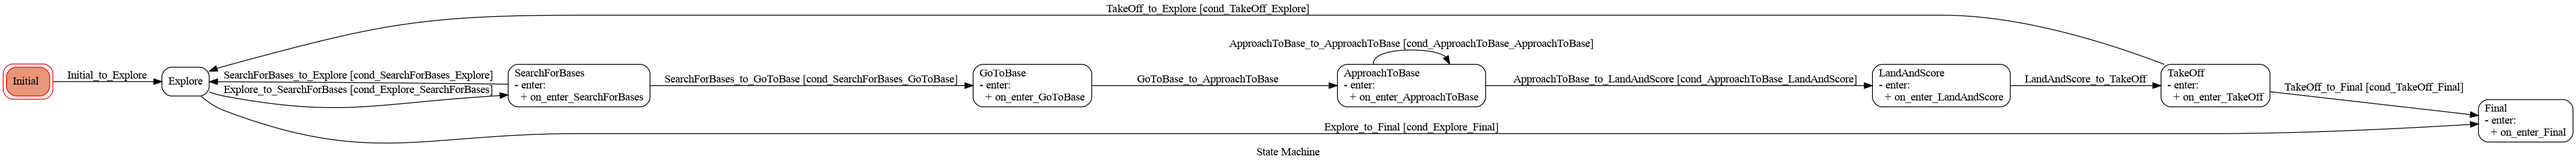
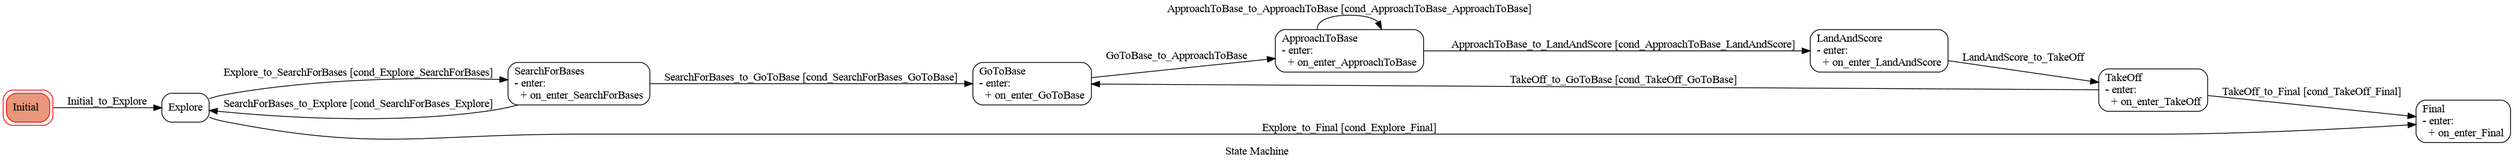
Phase 1 only IA

diff --git a/Pytransitions/FRTL/FRTL.py b/Pytransitions/FRTL/FRTL.py
@@ -12,7 +12,7 @@ from cv_bridge import CvBridge
 
 from DetectNet import detect_single_frame
 
-TARGET_HEIGHT = 3
+TARGET_HEIGHT = 4
 resp = ['']
 msg = String()
 global Wait_flag
@@ -40,6 +40,59 @@ def is_base_already_visited(self, x, y):
         return False
 
 import math
+
+def cleanMappedBases(self):
+        self.node.get_logger().info("Iniciando limpeza das bases mapeadas...")
+
+        # Opcional: Se alguma base foi detectada num surto da rede neural
+        # muito fora do seu grid 8x8m, você pode filtrá-la aqui antes do loop.
+
+        # Enquanto tivermos mais de 5 small bases, fundimos as mais próximas
+        while len(self.bases) > 5:
+            min_dist = float('inf')
+            pair_to_merge = None
+
+            # 1. Encontra o par de bases com a menor distância entre si
+            for i in range(len(self.bases)):
+                for j in range(i + 1, len(self.bases)):
+                    b1 = self.bases[i]
+                    b2 = self.bases[j]
+                    dist = math.sqrt((b1.pos.X - b2.pos.X)**2 + (b1.pos.Y - b2.pos.Y)**2)
+                    
+                    if dist < min_dist:
+                        min_dist = dist
+                        pair_to_merge = (i, j)
+            
+            # 2. Mescla o par mais próximo
+            if pair_to_merge:
+                i, j = pair_to_merge
+                b1 = self.bases[i]
+                b2 = self.bases[j]
+                
+                # Calcula o centroide (média das coordenadas)
+                avg_x = (b1.pos.X + b2.pos.X) / 2.0
+                avg_y = (b1.pos.Y + b2.pos.Y) / 2.0
+                avg_z = (b1.pos.Z + b2.pos.Z) / 2.0
+                
+                # Cria a nova base refinada
+                merged_target = Target(id=b1.id, pos=Position(avg_x, avg_y, avg_z, 0), visited=False)
+                
+                # Remove os antigos (ATENÇÃO: remover sempre o maior índice primeiro (j) para não quebrar a lista!)
+                self.bases.pop(j)
+                self.bases.pop(i)
+                
+                # Adiciona a nova base mesclada
+                self.bases.append(merged_target)
+                self.node.get_logger().info(f"Bases fundidas para corrigir odometria. Distância de erro era: {min_dist:.2f}m")
+
+        # 3. Reorganiza os IDs para ficarem de 1 a 5 certinho
+        for idx, base in enumerate(self.bases):
+            base.id = idx + 1
+            self.node.get_logger().info(f"Small Base Final #{base.id} -> X: {base.pos.X:.2f}, Y: {base.pos.Y:.2f}")
+
+        # Se por algum milagre ele mapeou menos de 5, avisa no log
+        if len(self.bases) < 5:
+            self.node.get_logger().warn(f"Atenção: Apenas {len(self.bases)} bases foram encontradas!")
 
 def searchBases(self, img):
     """
@@ -72,7 +125,7 @@ def searchBases(self, img):
     self.node.annotated_pub.publish(out_msg)
     
     # Constante óptica validada pelo SDF
-    FOCAL_LENGTH = 205.47 
+    FOCAL_LENGTH = 405.47 
     
     current_yaw = getattr(self, 'droneYaw', 0.0)
 
@@ -93,7 +146,7 @@ def searchBases(self, img):
             if label == 'large_base':
                 real_size = 2.0
             else:
-                real_size = 1.0
+                real_size = 1.1
 
             # A) Calcula a distância linear usando o tamanho correto
             dist_to_base = (real_size * FOCAL_LENGTH) / bbox_width_pixels
@@ -119,18 +172,15 @@ def searchBases(self, img):
                 if dist < 1.0:
                     is_duplicate = True
                     break
-            
+
             # 5. Adiciona novo Target respeitando a regra de posições
-            if label != 'large_base':
-                if not is_duplicate:
-                    # Gerar ID único incrementando o tamanho atual
+            if not is_duplicate:
+                if label == 'large_base':
+                    self.largeBase = Target(id=99, pos=Position(est_x, est_y, est_z, 0), visited=False)
+                    self.node.get_logger().info(f"Large Base encontrada em: X={est_x:.2f}, Y={est_y:.2f}")
+                else:
                     new_id = len(self.bases) + 1
-                    new_target = Target(
-                        id=new_id, 
-                        pos=Position(est_x, est_y, est_z, 0),
-                        visited=False
-                    )
-                    
+                    new_target = Target(id=new_id, pos=Position(est_x, est_y, est_z, 0), visited=False)
                     self.bases.append(new_target)
                     self.node.get_logger().info(f"Nova Small Base #{new_id} em: X={est_x:.2f}, Y={est_y:.2f}")
 
@@ -150,22 +200,25 @@ def searchBases(self, img):
 
 def searchNearestBase(self, img):
     """
-    Calcula o deslocamento relativo necessário, transformando as coordenadas
-    da câmera (Body Frame) para o sistema global (NED) usado pela plataforma.
+    Calcula o deslocamento relativo necessário MANTENDO NO REFERENCIAL BODY.
     """
-    
-    # 1. Atualiza e valida a posição do drone (proteção contra falha de leitura)
     time.sleep(3)
 
     self.dronePos = updateDronePos(self)
     if not self.dronePos:
         return Position(0.0, 0.0, 0.0, 0.0)
 
-    altitude = abs(self.dronePos.Z)
-
     current_yaw = getattr(self, 'droneYaw', 0.0) 
+    
+    self.node.get_logger().info("Executando detect_single_frame...")
+    annotated_img, detections = detect_single_frame(img)
 
-    _, detections = detect_single_frame(img)
+    if annotated_img is None:
+        self.node.get_logger().error("annotated_img é None!")
+        return Position(0.0, 0.0, 0.0, 0.0)
+
+    out_msg = self.node.bridge.cv2_to_imgmsg(annotated_img, encoding='bgr8')
+    self.node.annotated_pub.publish(out_msg)
     
     if not detections:
         return Position(0.0, 0.0, 0.0, 0.0)
@@ -173,50 +226,61 @@ def searchNearestBase(self, img):
     best_rel_pos = None
     min_dist_sq = float('inf')
 
-    smooth_factor = 0.85  # Move apenas 40% do erro por iteração (ajuda a desacelerar)
-    deadzone = 0.05      # Ignora erros menores que 5% (evita tremores finos)
+    smooth_factor = 0.85 
+    deadzone = 0.05      
 
-    # Valores extraídos diretamente do SDF do Gazebo
-    FOCAL_LENGTH = 205.47  # Calculado a partir de FOV 2.0 e Width 640
-    REAL_BASE_SIZE_M = 1.0 # 1 metro
+    FOCAL_LENGTH = 205.47
+    
+    # Constantes óticas (Pixels / FOCAL_LENGTH)
+    # Assumindo resolução de 640x480 e force_vector normalizado de -1 a 1
+    CONST_X = (640.0 / 2.0) / FOCAL_LENGTH  # Aproximadamente 1.557
+    CONST_Y = (480.0 / 2.0) / FOCAL_LENGTH  # Aproximadamente 1.168
 
     for det in detections:
         if isinstance(det, dict) and 'force_vector' in det and 'width' in det:
+            
+            # 1. CORREÇÃO DE ESCALA (Tamanho Dinâmico)
+            label = det.get('label', 'small_base')
+            if label == 'large_base':
+                real_size = 2.0
+            else:
+                real_size = 1.1
+
             fx = det['force_vector']['x']
             fy = det['force_vector']['y']
             bbox_width_pixels = det['width']
 
-            # Agora isso vai te dar a distância real (em metros) da lente até a base!
-            dist_to_base = (REAL_BASE_SIZE_M * FOCAL_LENGTH) / bbox_width_pixels
+            dist_to_base = (real_size * FOCAL_LENGTH) / bbox_width_pixels
 
-            # 1. Aplica a Zona Morta (Deadzone)
             if abs(fx) < deadzone: fx = 0.0
             if abs(fy) < deadzone: fy = 0.0
 
-            # 2. Coordenadas no referencial do DRONE (Body Frame) com Suavização
-            # O eixo Y da imagem controla Frente/Trás (+X)
-            # O eixo X da imagem controla Direita/Esquerda (+Y)
-            dx_body = -(fy * dist_to_base) * smooth_factor
-            dy_body = (fx * dist_to_base) * smooth_factor
+            # 2. CORREÇÃO MATEMÁTICA PINHOLE (Aplicando CONST_X e CONST_Y)
+            dx_body = -(fy * CONST_Y * dist_to_base) * smooth_factor
+            dy_body = (fx * CONST_X * dist_to_base) * smooth_factor
 
-            # 3. TRANSFORMAÇÃO PARA REFERENCIAL GLOBAL (NED)
+            # 3. Transformação para Global APENAS para verificar se já foi visitada!
             dx_ned = dx_body * math.cos(current_yaw) - dy_body * math.sin(current_yaw)
             dy_ned = dx_body * math.sin(current_yaw) + dy_body * math.cos(current_yaw)
 
-            # 4. Verificação de visita (usando coordenadas globais NED)
             est_x_global = self.dronePos.X + dx_ned
             est_y_global = self.dronePos.Y + dy_ned
 
             if is_base_already_visited(self, est_x_global, est_y_global):
                 continue
 
-            dist_sq = dx_ned**2 + dy_ned**2
+            # 4. CORREÇÃO DE REFERENCIAL (Retornar Body Frame para o relMove)
+            # Usamos dx_body e dy_body para saber a distância e salvar
+            dist_sq = dx_body**2 + dy_body**2
             if dist_sq < min_dist_sq:
                 min_dist_sq = dist_sq
-                best_rel_pos = Position(dx_ned, dy_ned, 0.0, 0.0)
+                # Salva dx_body, dy_body e A DISTÂNCIA Z ATÉ A BASE!
+                best_rel_pos = Position(dx_body, dy_body, dist_to_base, 0.0)
 
+    # Retorna dist_to_base = 0.0 se não achar nada
     return best_rel_pos if best_rel_pos is not None else Position(0.0, 0.0, 0.0, 0.0)
 
+    return best_rel_pos if best_rel_pos is not None else Position(0.0, 0.0, 0.0, 0.0)
 
 def updateDronePos(self):
     try:
@@ -378,7 +442,7 @@ class Phase1(GraphMachine):
 
         {'trigger': 'LandAndScore_to_TakeOff', 'source': 'LandAndScore', 'dest': 'TakeOff'},
 
-        {'trigger': 'TakeOff_to_Explore', 'source': 'TakeOff', 'dest': 'Explore', 'conditions': 'cond_TakeOff_Explore'},
+        {'trigger': 'TakeOff_to_GoToBase', 'source': 'TakeOff', 'dest': 'GoToBase', 'conditions': 'cond_TakeOff_GoToBase'},
         {'trigger': 'TakeOff_to_Final', 'source': 'TakeOff', 'dest': 'Final', 'conditions': 'cond_TakeOff_Final'},
     ]
 
@@ -408,13 +472,19 @@ class Phase1(GraphMachine):
         self.img = None
         self.trigger_image = False
         self.count = 0
-        self.visitedBases = 1
         self.bases: list[Target] = []
+        self.largeBase = None  # Para guardar a base final separada
+        self.visitedBases = 0  
+        
+        # Grid Lawnmower para cobrir 8x8 (pontos extremos e meios)
         self.defPos = [ 
-                    Position(2 + self.homePos.X,  2 + self.homePos.Y, self.homePos.Z - self.targetHeight, 0), 
-                    Position(-4 + self.homePos.X, -4 + self.homePos.Y, self.homePos.Z - self.targetHeight, 0),
-                    Position(-6 + self.homePos.X, -6 + self.homePos.Y, self.homePos.Z - self.targetHeight, 0)
-                ]
+            Position( 0 + self.homePos.X,   0 + self.homePos.Y, self.homePos.Z - self.targetHeight, 0), 
+            Position( 0 + self.homePos.X,  -8.5 + self.homePos.Y, self.homePos.Z - self.targetHeight, 0),
+            Position( -4 + self.homePos.X,  -4 + self.homePos.Y, self.homePos.Z - self.targetHeight, 0),
+            Position(-8 + self.homePos.X,  -0 + self.homePos.Y, self.homePos.Z - self.targetHeight, 0),
+            Position(-8 + self.homePos.X,   -8 + self.homePos.Y, self.homePos.Z - self.targetHeight, 0)
+        ]
+        self.MAX_ATTEMPT = len(self.defPos)
         
         
         # Targets = [
@@ -429,7 +499,6 @@ class Phase1(GraphMachine):
         self.dronePos = Position(0,0,0, 0)
         self.distToTarget = 99999999.0
 
-        self.MAX_ATTEMPT = 3
         self.SAFE_DISTANCE = 0.2
 
         ####################### Draw State Machine ######################
@@ -451,26 +520,37 @@ class Phase1(GraphMachine):
         return self.count > self.MAX_ATTEMPT
 
     def cond_SearchForBases_Explore(self):
-        return len(self.bases) < 5 and self.count <= self.MAX_ATTEMPT
+        # Continua explorando até varrer todos os pontos
+        return self.count < self.MAX_ATTEMPT
             
     def cond_SearchForBases_GoToBase(self):
-        return len(self.bases) > 1
+        # Acabou de explorar? Vai para as bases!
+        return self.count >= self.MAX_ATTEMPT
     
     def cond_ApproachToBase_ApproachToBase(self):
-        return (self.distToTarget >= self.SAFE_DISTANCE)
+        # Continua aproximando se X/Y forem longe OU se o Z ainda for alto (> 0.6m)
+        current_error_xy = calcDist(self.basePos)
+        current_height_z = self.basePos.Z # Pega o Z retornado pela searchNearestBase
+        return (current_error_xy >= self.SAFE_DISTANCE) or (current_height_z > 0.6)
     
     def cond_ApproachToBase_LandAndScore(self):
-        return (self.distToTarget < self.SAFE_DISTANCE)
+        # Pousa se X/Y forem perto E se estiver baixo (< 0.6m)
+        current_error_xy = calcDist(self.basePos)
+        current_height_z = self.basePos.Z
+        return (current_error_xy < self.SAFE_DISTANCE) and (current_height_z <= 0.6)
     
-    def cond_TakeOff_Explore(self):
-        return (self.visitedBases < 5)
+    def cond_TakeOff_GoToBase(self):
+        # Quantidade de small bases na lista + 1 (se a large base foi achada), senão + 0
+        total_targets = len(self.bases) + (1 if self.largeBase is not None else 0)
+        return self.visitedBases < total_targets 
     
     def cond_TakeOff_Final(self):
-        return (self.visitedBases >= 5)
+        total_targets = len(self.bases) + (1 if self.largeBase is not None else 0)
+        return self.visitedBases >= total_targets
     
     ####################### Before Transitions ####################### 
     def before_Initial_Explore(self):
-        self.count = 1
+        self.count = 0
         self.visitedBases = 0
 
     def reset_trigger_image(self):
@@ -482,11 +562,27 @@ class Phase1(GraphMachine):
         self.count = self.count + 1
 
     def before_SearchForBases_GoToBase(self):
-        self.count = 1
+        cleanMappedBases(self)
 
     def before_ApproachToBase_ApproachToBase(self):
         print("Moving to new Position...")
-        Request(self.node, f"relMove;{self.basePos.X};{self.basePos.Y};{self.basePos.Z}")
+        
+        # --- NOVO CÁLCULO DE DESCIDA GRADUAL ---
+        # Definimos uma "altitude de pouso" (ex: 0.5m do chão).
+        DESIRED_LANDING_ALTITUDE_Z = -0.5
+        
+        # Pegamos a altitude Z atual do drone (ex: -3.0).
+        current_altitude_z = self.dronePos.Z
+        
+        # Criamos um delta_z para aproximar a altitude atual da altitude de pouso.
+        # Usamos smooth_factor para a descida ser suave.
+        descend_smooth_factor = 0.2 # Desce 20% do erro por iteração
+        delta_z = (DESIRED_LANDING_ALTITUDE_Z - current_altitude_z) * descend_smooth_factor
+        # ----------------------------------------
+
+        # Usamos a posição Body Frame (X, Y) calculada pela câmera 
+        # e o novo delta_z calculado para a descida.
+        Request(self.node, f"relMove;{self.basePos.X};{self.basePos.Y};{-delta_z}")
         Wait()
 
     ####################### On_enter States #######################         
@@ -502,15 +598,35 @@ class Phase1(GraphMachine):
 
     def on_enter_GoToBase(self):
         self.node.get_logger().info("on_enter_GoToBase")
-        target_global = self.bases[self.visitedBases].pos
+        
+        # Decide qual é o alvo: As 5 pequenas ou a grande?
+        if self.visitedBases < len(self.bases):
+            target_global = self.bases[self.visitedBases].pos
+            self.node.get_logger().info(f"Indo para Small Base {self.visitedBases+1}")
+        elif self.largeBase is not None:
+            target_global = self.largeBase.pos
+            self.node.get_logger().info("Indo para a Large Base Final!")
+        else:
+            self.node.get_logger().error("Erro: Large Base não foi mapeada!")
+            return # Ou joga pro final/emergência
+            
         self.dronePos = updateDronePos(self)
+        current_yaw = getattr(self, 'droneYaw', 0.0) 
+    
+        # 1. Distância no Referencial Global (Norte/Leste)
+        delta_x_global = target_global.X - self.dronePos.X
+        delta_y_global = target_global.Y - self.dronePos.Y
+        
+        # 2. Converte para o Referencial do Drone (Body Frame: Frente/Direita)
+        # Aplicamos a matriz de rotação inversa (girando pelo -Yaw)
+        delta_x_body = delta_x_global * math.cos(current_yaw) + delta_y_global * math.sin(current_yaw)
+        delta_y_body = -delta_x_global * math.sin(current_yaw) + delta_y_global * math.cos(current_yaw)
+        delta_z = 0.1
 
-        # offset relativo
-        delta_x = target_global.X - self.dronePos.X
-        delta_y = target_global.Y - self.dronePos.Y
-        delta_z = 0
+        self.node.get_logger().info(f"Movendo (Body Frame): Frente={delta_x_body:.2f}m, Direita={delta_y_body:.2f}m")
 
-        Request(self.node, f"relMove;{delta_x};{delta_y};{delta_z}")
+        # 3. Envia o comando relativo na perspectiva do drone
+        Request(self.node, f"relMove;{delta_x_body};{delta_y_body};{delta_z}")
         Wait()
 
     def on_enter_ApproachToBase(self):
